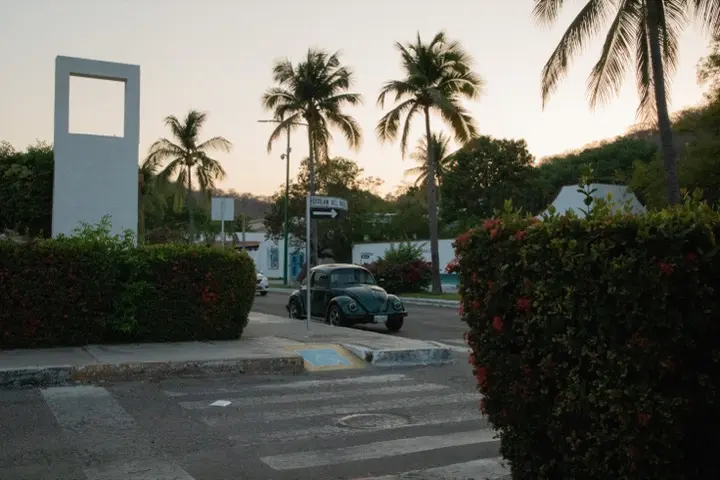
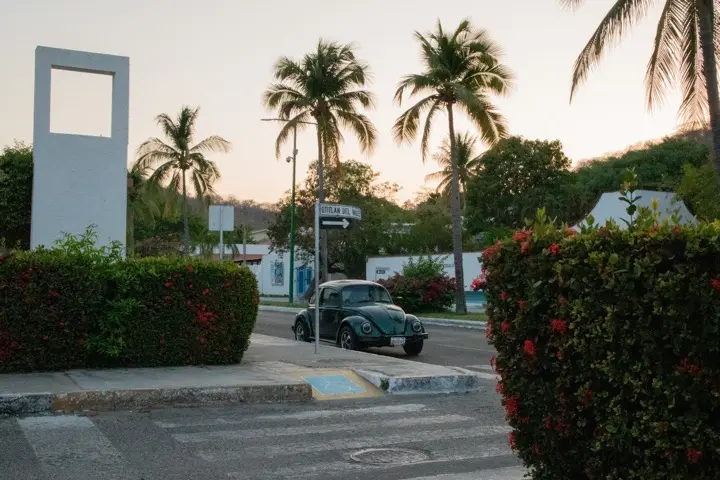
new cover (shrank image)

diff --git a/ursem.cc/css/site.css b/ursem.cc/css/site.css
@@ -84,7 +84,7 @@ html, body {
   margin: 0;
   width: 100vw;
   height: 100vh;
-  background-image: url('/images/2023/hualtuco/hualtuco-28.jpg');
+  background-image: url('/images/web/cover.jpg');
   background-position: center;
   background-size: cover;
 }
